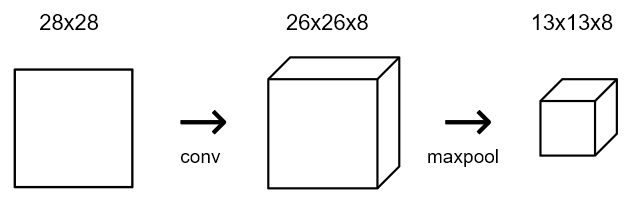
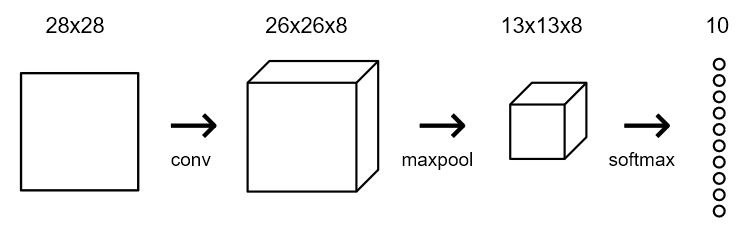
up

diff --git a/content/posts/cnn.md b/content/posts/cnn.md
@@ -30,9 +30,22 @@ In this way, we can think of any image as a 3D matrix or volume with some width,
 
 The challenge is to create an image classifier that looks at these pixel values and can classify this image as a car under *varying* light conditions, angles and positions.
 
+# Feedforward nets for image classification
+
+We could try to use an feedforward nets for this task by *flattening* all the pixels into a vector. The drawback is that spatial information within the image is lost. So, they are unable to perform well on complex datasets.
+
+<figure style="width: 650px">
+	<img src="/media/vision/cnn/mlp-for-image.png" alt="Using a feedforward nets for Image Classification">
+	<figcaption>Using a feedforward net for Image Classification</figcaption>
+</figure>
+
+Another drawback of feedforward nets is the they use **fully connected layers**, ie. ever neuron is connected to all the neurons of the previous layer. Even with a small $24 \times 24$ image, we get a vector of length $576$. You can imagine how many incoming and outgoing connections they will have.
+
 # Convolutional Neural Networks
 
-Convolutional neural networks represent a data-driven approach to image classification. It contains three main types of layers:
+Convolutional neural networks represent a data-driven approach to image classification. They are a specialized form of neural nets for processing grid-like data such as images.
+
+It contains three main types of layers:
 
 - Convolutional layer
 - Pooling layer
@@ -40,6 +53,34 @@ Convolutional neural networks represent a data-driven approach to image classifi
 
 <figure style="width: 650px">
 	<img src="/media/vision/cnn/simple-cnn.png" alt="CNN">
+	<figcaption>CNN</figcaption>
+</figure>
+
+Due to the fully connected nature of feedforward neural nets, a neuron in the first layer would be responsible for understanding the entire image.
+
+But in a CNN, a neuron is only responsible for a small region of the input image. These are called **locally connected layers**. They have the advantage of using far fewer parameters compared to fully connected layers.
+
+<figure style="width: 600px">
+	<img src="/media/vision/cnn/sparse-connections.png" alt="Locally connected layers">
+	<figcaption>Locally connected layers</figcaption>
+</figure>
+
+The output layer can combine the findings of the each of the hidden nodes to make a prediction.
+
+We can rearrange the input vector of pixels and the hidden layer as matrices.
+
+<figure style="width: 600px">
+	<img src="/media/vision/cnn/reorder-neurons-1.png" alt="CNN">
+	<figcaption>CNN</figcaption>
+</figure>
+
+<figure style="width: 600px">
+	<img src="/media/vision/cnn/reorder-multiple-filters.png" alt="CNN">
+	<figcaption>CNN</figcaption>
+</figure>
+
+<figure style="width: 600px">
+	<img src="/media/vision/cnn/conv-net-neurons.png" alt="CNN">
 	<figcaption>CNN</figcaption>
 </figure>
 
@@ -68,7 +109,7 @@ $$
 
 The values inside a kernel are called **weights**, because they determine how important a input pixel is in forming the filtered image. A kernel also has a **bias** parameter associated with it. Both weight and bias  parameters are learnt via backprop.
 
-We execute a convolution by sliding the filter over the input image. At every location, calculate the *dot product* between the filter matrix and the underlying values in the image and add the *bias* to get the final pixel value. Write it into the output matrix.
+We execute a convolution by sliding the filter over the input image. At every location, calculate perform *element-wise multiplication* between the filter matrix and the underlying values in the image and add the *bias* to get the final pixel value. Write it into the output matrix.
 
 If the final value large, then the filter has found a good candidate for the feature it was looking for.
 
@@ -117,6 +158,8 @@ All pooling operations first break an image into smaller patches, often $2 \time
 
 For each $2 \times 2$ patch, a **max pooling** layer looks at each value and selects only the maximum value. In the pink patch, it selects $20$ and so on until we are left with four values from the four patches. For similar images, even if a patch has some slightly different pixel values, the maximum values extracted in successive pooling layers, should be similar.
 
+Max-pooling layers kind of “zoom out”. They allow later convolutional layers to work on larger sections of the data, because a small patch after the pooling layer corresponds to a much larger patch before it.
+
 On the other hand, an **average pooling** layer takes the average of the values in a patch. But empirically, averaging is not as effective as max pooling.
 
 <figure style="width: 450px">
@@ -145,6 +188,10 @@ If you perform convolution on it using $8$ different filters, you will get $8$ f
 
 Next, we apply pooling. Pooling changes the height and width depending on the stride and window size. It does not change the depth, ie. it does not create or remove feature maps.
 
+# Parameter Sharing
+
+# Local Connectivity
+
 # References
 
 - [Brandon Rohrer: How Convolutional Neural Networks work](https://youtu.be/FmpDIaiMIeA?list=LLm-oVeNttHguGRcnMcWtZRg)
@@ -155,3 +202,12 @@ Next, we apply pooling. Pooling changes the height and width depending on the st
 - [Basics of convolutions](https://aishack.in/tutorials/convolutions/)
 - [Image convolution examples](https://aishack.in/tutorials/image-convolution-examples/)
 - [Wikipedia: Kernel (image processing)](https://en.wikipedia.org/wiki/Kernel_(image_processing))
+
+- more about para and hyper
+- output feature map size formula
+- why convolutions
+  - fully connected layers, too many weights
+  - use the udacity local connectivity video and screenshots
+  - also Convolutional Layers (Part 2)
+
+
